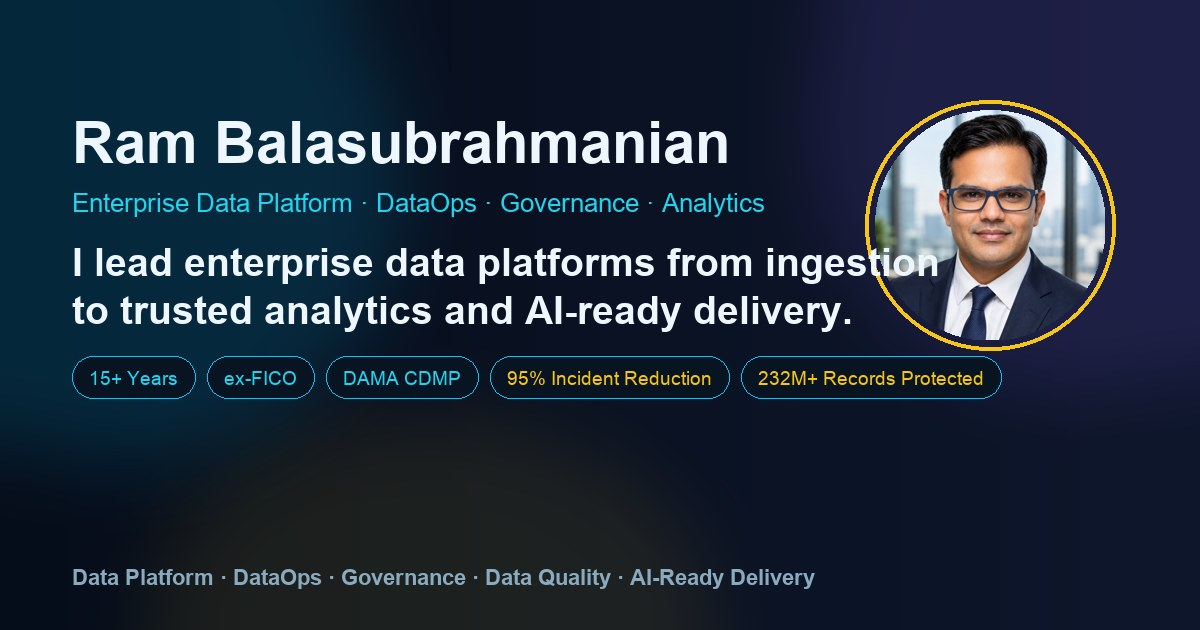
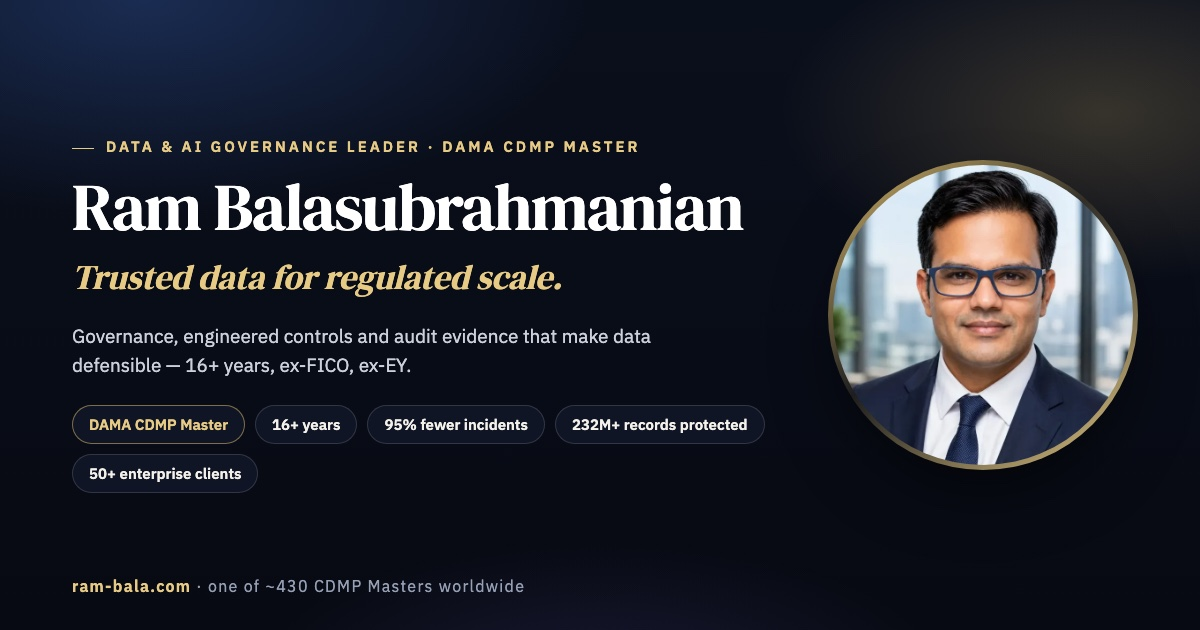
New social-share image (Midnight, CDMP Master, 16+ years); og:image cache-bust; legacy source cleanup

diff --git a/index.html b/index.html
@@ -1,4 +1,4 @@
-<!DOCTYPE html><html lang="en"><head><meta charset="UTF-8"/><meta name="viewport" content="width=device-width,initial-scale=1.0"/><title>Ram Balasubrahmanian | Data &amp; AI Governance Leader | ex-FICO | DAMA CDMP Master</title><meta name="description" content="Ram Balasubrahmanian — Data &amp; AI Governance leader. DAMA CDMP Master, 16+ years, ex-FICO, ex-EY. 95% fewer production incidents; 232M+ regulated records protected per cycle. Portfolio, case studies and working systems."/><meta name="keywords" content="Ram Balasubrahmanian, data governance leader, AI governance leader, enterprise data platform, DataOps, data quality, MDM, metadata management, RAG pipeline, MediGovern RAG, DAMA CDMP Master, ex-FICO, ex-EY, UAE data governance, GCC, KSA, NDMO, SAMA, SDAIA, DIFC, ADGM, PDPL data governance, data sovereignty, data residency, GDPR data governance, EU AI Act, DORA, Germany data governance, Frankfurt, Amsterdam, Dublin, APAC, BFSI, The Governed Data and AI Brief"/><meta name="geo.region" content="IN-KA"/><meta name="geo.placename" content="Bengaluru, Karnataka, India"/><meta name="coverage" content="Worldwide"/><meta name="rating" content="general"/><meta name="referrer" content="strict-origin-when-cross-origin"/><meta property="og:title" content="Ram Balasubrahmanian | Data &amp; AI Governance Leader"/><meta property="og:description" content="Data Governance, AI Governance and DataOps for BFSI &amp; other data-intensive domains. ex-FICO · DAMA CDMP Master · 95% incident reduction · GCC and APAC."/><meta property="og:type" content="profile"/><meta property="og:url" content="https://www.ram-bala.com/"/><meta property="og:image" content="https://www.ram-bala.com/assets/og-image.jpg"/><meta property="og:image:width" content="1200"/><meta property="og:image:height" content="630"/><meta property="og:image:alt" content="Ram Balasubrahmanian — Data and AI Governance Leader portfolio"/><meta property="og:site_name" content="Ram Balasubrahmanian"/><meta property="og:locale" content="en_US"/><meta property="profile:first_name" content="Ram"/><meta property="profile:last_name" content="Balasubrahmanian"/><meta name="twitter:card" content="summary_large_image"/><meta name="twitter:title" content="Ram Balasubrahmanian | Data &amp; AI Governance Leader"/><meta name="twitter:description" content="ex-FICO Data Governance &amp; AI Governance leader. DAMA CDMP Master. UAE · GCC · APAC."/><meta name="twitter:image" content="https://www.ram-bala.com/assets/og-image.jpg"/><meta name="twitter:image:alt" content="Ram Balasubrahmanian portfolio"/><meta name="robots" content="index,follow,max-image-preview:large,max-snippet:-1,max-video-preview:-1"/><meta name="googlebot" content="index,follow"/><meta name="author" content="Ramachandran Balasubrahmanian"/><meta name="theme-color" content="#000000"/><link rel="canonical" href="https://www.ram-bala.com/"/><link rel="sitemap" type="application/xml" title="Sitemap" href="/sitemap.xml"/><link rel="me" href="https://www.linkedin.com/in/ramachandran-balasubrahmanian/"/><link rel="me" href="https://github.com/ramachandranbalasubrahmanian-svg"/><link rel="icon" type="image/png" href="/assets/headshot.png"/><link rel="apple-touch-icon" href="/assets/headshot.png"/>
+<!DOCTYPE html><html lang="en"><head><meta charset="UTF-8"/><meta name="viewport" content="width=device-width,initial-scale=1.0"/><title>Ram Balasubrahmanian | Data &amp; AI Governance Leader | ex-FICO | DAMA CDMP Master</title><meta name="description" content="Ram Balasubrahmanian — Data &amp; AI Governance leader. DAMA CDMP Master, 16+ years, ex-FICO, ex-EY. 95% fewer production incidents; 232M+ regulated records protected per cycle. Portfolio, case studies and working systems."/><meta name="keywords" content="Ram Balasubrahmanian, data governance leader, AI governance leader, enterprise data platform, DataOps, data quality, MDM, metadata management, RAG pipeline, MediGovern RAG, DAMA CDMP Master, ex-FICO, ex-EY, UAE data governance, GCC, KSA, NDMO, SAMA, SDAIA, DIFC, ADGM, PDPL data governance, data sovereignty, data residency, GDPR data governance, EU AI Act, DORA, Germany data governance, Frankfurt, Amsterdam, Dublin, APAC, BFSI, The Governed Data and AI Brief"/><meta name="geo.region" content="IN-KA"/><meta name="geo.placename" content="Bengaluru, Karnataka, India"/><meta name="coverage" content="Worldwide"/><meta name="rating" content="general"/><meta name="referrer" content="strict-origin-when-cross-origin"/><meta property="og:title" content="Ram Balasubrahmanian | Data &amp; AI Governance Leader"/><meta property="og:description" content="Data Governance, AI Governance and DataOps for BFSI &amp; other data-intensive domains. ex-FICO · DAMA CDMP Master · 95% incident reduction · GCC and APAC."/><meta property="og:type" content="profile"/><meta property="og:url" content="https://www.ram-bala.com/"/><meta property="og:image" content="https://www.ram-bala.com/assets/og-image.jpg?v=3"/><meta property="og:image:width" content="1200"/><meta property="og:image:height" content="630"/><meta property="og:image:alt" content="Ram Balasubrahmanian — Data and AI Governance Leader portfolio"/><meta property="og:site_name" content="Ram Balasubrahmanian"/><meta property="og:locale" content="en_US"/><meta property="profile:first_name" content="Ram"/><meta property="profile:last_name" content="Balasubrahmanian"/><meta name="twitter:card" content="summary_large_image"/><meta name="twitter:title" content="Ram Balasubrahmanian | Data &amp; AI Governance Leader"/><meta name="twitter:description" content="ex-FICO Data Governance &amp; AI Governance leader. DAMA CDMP Master. UAE · GCC · APAC."/><meta name="twitter:image" content="https://www.ram-bala.com/assets/og-image.jpg?v=3"/><meta name="twitter:image:alt" content="Ram Balasubrahmanian portfolio"/><meta name="robots" content="index,follow,max-image-preview:large,max-snippet:-1,max-video-preview:-1"/><meta name="googlebot" content="index,follow"/><meta name="author" content="Ramachandran Balasubrahmanian"/><meta name="theme-color" content="#000000"/><link rel="canonical" href="https://www.ram-bala.com/"/><link rel="sitemap" type="application/xml" title="Sitemap" href="/sitemap.xml"/><link rel="me" href="https://www.linkedin.com/in/ramachandran-balasubrahmanian/"/><link rel="me" href="https://github.com/ramachandranbalasubrahmanian-svg"/><link rel="icon" type="image/png" href="/assets/headshot.png"/><link rel="apple-touch-icon" href="/assets/headshot.png"/>
 <style>@font-face{font-family:'DM Serif Display';font-style:normal;font-weight:400;font-display:swap;src:url('assets/fonts/dm-serif-display-latin.woff2') format('woff2');unicode-range:U+0000-00FF,U+0131,U+0152-0153,U+02BB-02BC,U+02C6,U+02DA,U+02DC,U+2000-206F,U+20AC,U+2122,U+2191,U+2193,U+2212,U+2215,U+FEFF,U+FFFD}@font-face{font-family:'IBM Plex Sans';font-style:normal;font-weight:400;font-display:swap;src:url('assets/fonts/ibm-plex-sans-400-latin.woff2') format('woff2');unicode-range:U+0000-00FF,U+0131,U+0152-0153,U+02BB-02BC,U+02C6,U+02DA,U+02DC,U+2000-206F,U+20AC,U+2122,U+2191,U+2193,U+2212,U+2215,U+FEFF,U+FFFD}@font-face{font-family:'IBM Plex Sans';font-style:normal;font-weight:600;font-display:swap;src:url('assets/fonts/ibm-plex-sans-600-latin.woff2') format('woff2');unicode-range:U+0000-00FF,U+0131,U+0152-0153,U+02BB-02BC,U+02C6,U+02DA,U+02DC,U+2000-206F,U+20AC,U+2122,U+2191,U+2193,U+2212,U+2215,U+FEFF,U+FFFD}</style><link rel="preload" href="assets/fonts/ibm-plex-sans-400-latin.woff2" as="font" type="font/woff2" crossorigin/><link rel="preload" href="assets/fonts/ibm-plex-sans-600-latin.woff2" as="font" type="font/woff2" crossorigin/><link rel="preload" href="assets/fonts/dm-serif-display-latin.woff2" as="font" type="font/woff2" crossorigin/><link rel="stylesheet" href="assets/style.css?v=26"/><link rel="stylesheet" href="assets/executive-upgrade.css?v=13"/><link rel="stylesheet" href="assets/review-fixes.css?v=1"/><link rel="stylesheet" href="assets/theme-v3.css?v=2"/>
 <link rel="stylesheet" href="assets/recommendations-carousel.css?v=7" media="print" onload="this.media='all'"/><link rel="stylesheet" href="assets/dama-credential-wall.css?v=3" media="print" onload="this.media='all'"/><noscript><link rel="stylesheet" href="assets/recommendations-carousel.css?v=7"/><link rel="stylesheet" href="assets/dama-credential-wall.css?v=3"/></noscript><link rel="preload" href="assets/headshot-340.webp" as="image" type="image/webp" fetchpriority="high"/><link rel="dns-prefetch" href="https://assets.calendly.com"/><link rel="preconnect" href="https://assets.calendly.com" crossorigin/></head><body class="exec-fast"><a class="skip-link" href="#main">Skip to content</a><div class="scroll-progress" id="scroll-progress" aria-hidden="true" hidden></div><div class="announce-strip"><div class="announce-inner">DAMA CDMP Master · one of ~430 certified worldwide · <a href="https://eu.credential.net/4a794956-acbf-4e4c-bdfa-0507c563027c" class="announce-link" target="_blank" rel="noopener">Verify credential&thinsp;→</a><a href="/demos/" class="announce-link">Three working systems&thinsp;→</a></div></div><div class="exec-bar" id="exec-bar" aria-hidden="true" inert><div class="exec-bar-inner"><span class="exec-bar-name">Ram Balasubrahmanian</span><span class="exec-bar-role">Data &amp; AI Governance · ex-FICO</span><div class="exec-bar-kpis" aria-label="Key outcomes"><div class="exec-bar-kpi"><strong>95%</strong><span>incidents down</span></div><div class="exec-bar-kpi"><strong>232M+</strong><span>records protected</span></div><div class="exec-bar-kpi"><strong>$2M+</strong><span>annual savings</span></div><div class="exec-bar-kpi"><strong>50+</strong><span>enterprise clients</span></div></div><div class="exec-bar-actions"><a href="assets/Ram-Bala-Executive-Summary.pdf?v=9" class="exec-bar-link exec-bar-link-primary" download="Ram-Bala-Executive-Summary.pdf">Executive summary</a><a href="assets/resume.pdf?v=13" class="exec-bar-link" download="Ram-Bala-Master-Resume.pdf">CV</a><a href="#contact" class="exec-bar-cta">Contact</a></div></div></div><nav id="nav" class="solid" aria-label="Primary navigation"><div class="nav-inner"><a href="#hero" class="nav-logo"><div class="nav-badge">RB</div>
 Ram Balasubrahmanian

diff --git a/perspectives/eu-gdpr-ai-act-data-governance/index.html b/perspectives/eu-gdpr-ai-act-data-governance/index.html
@@ -14,14 +14,14 @@
 <meta property="og:url" content="https://www.ram-bala.com/perspectives/eu-gdpr-ai-act-data-governance/"/>
 <meta property="og:title" content="EU GDPR &amp; AI Act Data Governance | Ram Balasubrahmanian"/>
 <meta property="og:description" content="GDPR-aligned controls delivered vendor-side, EU-AI-Act advisory analysis, and three working governed-AI demos. By Ram Balasubrahmanian, DAMA CDMP Master."/>
-<meta property="og:image" content="https://www.ram-bala.com/assets/og-image.jpg"/>
+<meta property="og:image" content="https://www.ram-bala.com/assets/og-image.jpg?v=3"/>
 <meta property="og:image:width" content="1200"/>
 <meta property="og:image:height" content="630"/>
 <meta property="og:image:alt" content="EU GDPR and AI Act data governance perspective"/>
 <meta name="twitter:card" content="summary_large_image"/>
 <meta name="twitter:title" content="EU GDPR &amp; AI Act Data Governance"/>
 <meta name="twitter:description" content="GDPR-aligned controls delivered vendor-side, EU-AI-Act advisory analysis, three working governed-AI demos."/>
-<meta name="twitter:image" content="https://www.ram-bala.com/assets/og-image.jpg"/>
+<meta name="twitter:image" content="https://www.ram-bala.com/assets/og-image.jpg?v=3"/>
 <script type="application/ld+json">
 {
   "@context":"https://schema.org",
@@ -36,7 +36,7 @@
       "datePublished":"2026-06-26",
       "dateModified":"2026-06-26",
       "mainEntityOfPage":"https://www.ram-bala.com/perspectives/eu-gdpr-ai-act-data-governance/",
-      "image":"https://www.ram-bala.com/assets/og-image.jpg",
+      "image":"https://www.ram-bala.com/assets/og-image.jpg?v=3",
       "keywords":["EU AI Act","GDPR data governance","DORA","data governance","Netherlands","Ireland","Germany","AI governance","DAMA DMBOK","data quality"],
       "articleSection":"EU Data Governance"
     },

diff --git a/perspectives/gcc-pdpl-data-governance/index.html b/perspectives/gcc-pdpl-data-governance/index.html
@@ -13,14 +13,14 @@
 <meta property="og:url" content="https://www.ram-bala.com/perspectives/gcc-pdpl-data-governance/"/>
 <meta property="og:title" content="GCC PDPL Data Governance | Ram Balasubrahmanian"/>
 <meta property="og:description" content="What GCC data programs need now: governance, stewardship, lineage, privacy controls, audit evidence and AI readiness."/>
-<meta property="og:image" content="https://www.ram-bala.com/assets/og-image.jpg"/>
+<meta property="og:image" content="https://www.ram-bala.com/assets/og-image.jpg?v=3"/>
 <meta property="og:image:width" content="1200"/>
 <meta property="og:image:height" content="630"/>
 <meta property="og:image:alt" content="GCC PDPL data governance perspective"/>
 <meta name="twitter:card" content="summary_large_image"/>
 <meta name="twitter:title" content="GCC PDPL Data Governance"/>
 <meta name="twitter:description" content="Data governance perspective for UAE, KSA, Qatar and regulated GCC organizations."/>
-<meta name="twitter:image" content="https://www.ram-bala.com/assets/og-image.jpg"/>
+<meta name="twitter:image" content="https://www.ram-bala.com/assets/og-image.jpg?v=3"/>
 <script type="application/ld+json">
 {
   "@context":"https://schema.org",
@@ -35,7 +35,7 @@
       "datePublished":"2026-06-15",
       "dateModified":"2026-06-17",
       "mainEntityOfPage":"https://www.ram-bala.com/perspectives/gcc-pdpl-data-governance/",
-      "image":"https://www.ram-bala.com/assets/og-image.jpg",
+      "image":"https://www.ram-bala.com/assets/og-image.jpg?v=3",
       "keywords":["GCC data governance","PDPL","NDMO","SAMA","SDAIA","UAE","Saudi Arabia","DIFC","ADGM","data sovereignty","data residency","DAMA DMBOK","data quality"],
       "articleSection":"GCC Data Governance"
     },

diff --git a/perspectives/incident-reduction-95-percent/index.html b/perspectives/incident-reduction-95-percent/index.html
@@ -13,14 +13,14 @@
 <meta property="og:url" content="https://www.ram-bala.com/perspectives/incident-reduction-95-percent/"/>
 <meta property="og:title" content="95% Enterprise Data Incident Reduction | Ram Balasubrahmanian"/>
 <meta property="og:description" content="A DataOps case study on reducing recurring enterprise data incidents through ownership, RCA evidence and prevention controls."/>
-<meta property="og:image" content="https://www.ram-bala.com/assets/og-image.jpg"/>
+<meta property="og:image" content="https://www.ram-bala.com/assets/og-image.jpg?v=3"/>
 <meta property="og:image:width" content="1200"/>
 <meta property="og:image:height" content="630"/>
 <meta property="og:image:alt" content="Ram Balasubrahmanian DataOps case study"/>
 <meta name="twitter:card" content="summary_large_image"/>
 <meta name="twitter:title" content="95% Enterprise Data Incident Reduction"/>
 <meta name="twitter:description" content="Detect Resolve Prevent operating model by Ram Balasubrahmanian."/>
-<meta name="twitter:image" content="https://www.ram-bala.com/assets/og-image.jpg"/>
+<meta name="twitter:image" content="https://www.ram-bala.com/assets/og-image.jpg?v=3"/>
 <script type="application/ld+json">
 {
   "@context":"https://schema.org",
@@ -35,7 +35,7 @@
       "datePublished":"2026-06-15",
       "dateModified":"2026-06-17",
       "mainEntityOfPage":"https://www.ram-bala.com/perspectives/incident-reduction-95-percent/",
-      "image":"https://www.ram-bala.com/assets/og-image.jpg",
+      "image":"https://www.ram-bala.com/assets/og-image.jpg?v=3",
       "keywords":["DataOps","incident reduction","RCA","metadata controls","FICO","enterprise data"],
       "articleSection":"DataOps"
     },

diff --git a/perspectives/ai-governance-operating-model/index.html b/perspectives/ai-governance-operating-model/index.html
@@ -13,14 +13,14 @@
 <meta property="og:url" content="https://www.ram-bala.com/perspectives/ai-governance-operating-model/"/>
 <meta property="og:title" content="AI Governance Operating Model | Ram Balasubrahmanian"/>
 <meta property="og:description" content="Model cards are not enough. Practical AI governance needs evidence, monitoring, privacy, explainability and human review gates."/>
-<meta property="og:image" content="https://www.ram-bala.com/assets/og-image.jpg"/>
+<meta property="og:image" content="https://www.ram-bala.com/assets/og-image.jpg?v=3"/>
 <meta property="og:image:width" content="1200"/>
 <meta property="og:image:height" content="630"/>
 <meta property="og:image:alt" content="AI governance operating model by Ram Balasubrahmanian"/>
 <meta name="twitter:card" content="summary_large_image"/>
 <meta name="twitter:title" content="AI Governance Operating Model"/>
 <meta name="twitter:description" content="Practical AI governance for regulated BFSI platforms."/>
-<meta name="twitter:image" content="https://www.ram-bala.com/assets/og-image.jpg"/>
+<meta name="twitter:image" content="https://www.ram-bala.com/assets/og-image.jpg?v=3"/>
 <script type="application/ld+json">
 {
   "@context":"https://schema.org",
@@ -35,7 +35,7 @@
       "datePublished":"2026-06-15",
       "dateModified":"2026-06-17",
       "mainEntityOfPage":"https://www.ram-bala.com/perspectives/ai-governance-operating-model/",
-      "image":"https://www.ram-bala.com/assets/og-image.jpg",
+      "image":"https://www.ram-bala.com/assets/og-image.jpg?v=3",
       "keywords":["AI governance","model risk","explainability","BFSI","responsible AI"],
       "articleSection":"AI Governance"
     },

diff --git a/enterprise-data-platform/index.html b/enterprise-data-platform/index.html
@@ -14,13 +14,13 @@
 <meta property="og:url" content="https://www.ram-bala.com/enterprise-data-platform/"/>
 <meta property="og:title" content="Enterprise Data Platform Guide | Ram Balasubrahmanian"/>
 <meta property="og:description" content="A practical EDP knowledge hub for students, data leaders and practitioners: DMBOK, DataOps, governance, quality, reliability and AI controls."/>
-<meta property="og:image" content="https://www.ram-bala.com/assets/og-image.jpg"/>
+<meta property="og:image" content="https://www.ram-bala.com/assets/og-image.jpg?v=3"/>
 <meta property="og:image:width" content="1200"/>
 <meta property="og:image:height" content="630"/>
 <meta name="twitter:card" content="summary_large_image"/>
 <meta name="twitter:title" content="Enterprise Data Platform Guide | Ram Balasubrahmanian"/>
 <meta name="twitter:description" content="Practical EDP guide covering governance, DataOps, DMBOK, audit evidence and AI governance."/>
-<meta name="twitter:image" content="https://www.ram-bala.com/assets/og-image.jpg"/>
+<meta name="twitter:image" content="https://www.ram-bala.com/assets/og-image.jpg?v=3"/>
 <script type="application/ld+json">
 {
   "@context":"https://schema.org",
@@ -35,7 +35,7 @@
       "mainEntityOfPage":"https://www.ram-bala.com/enterprise-data-platform/",
       "datePublished":"2026-06-15",
       "dateModified":"2026-06-17",
-      "image":"https://www.ram-bala.com/assets/og-image.jpg"
+      "image":"https://www.ram-bala.com/assets/og-image.jpg?v=3"
     },
     {
       "@type":"FAQPage",

diff --git a/perspectives/index.html b/perspectives/index.html
@@ -13,13 +13,13 @@
 <meta property="og:url" content="https://www.ram-bala.com/perspectives/"/>
 <meta property="og:title" content="Data Governance Perspectives | Ram Balasubrahmanian"/>
 <meta property="og:description" content="Data governance, AI governance, DataOps and GCC data leadership perspectives from Ram Balasubrahmanian."/>
-<meta property="og:image" content="https://www.ram-bala.com/assets/og-image.jpg"/>
+<meta property="og:image" content="https://www.ram-bala.com/assets/og-image.jpg?v=3"/>
 <meta property="og:image:width" content="1200"/>
 <meta property="og:image:height" content="630"/>
 <meta name="twitter:card" content="summary_large_image"/>
 <meta name="twitter:title" content="Data Governance Perspectives | Ram Balasubrahmanian"/>
 <meta name="twitter:description" content="DataOps, AI governance and GCC data leadership insights."/>
-<meta name="twitter:image" content="https://www.ram-bala.com/assets/og-image.jpg"/>
+<meta name="twitter:image" content="https://www.ram-bala.com/assets/og-image.jpg?v=3"/>
 <script type="application/ld+json">
 {
   "@context":"https://schema.org",

diff --git a/resume.source.html b/resume.source.html
@@ -113,7 +113,7 @@
 </div>
 
 <div class="page page-break">
-  <h2>Independent Practice — Data &amp; AI Governance &nbsp;<span style="font-weight:600;color:var(--muted);letter-spacing:0;text-transform:none;font-size:8.6px;">Apr 2025 – Present · immediately available</span></h2>
+  <h2>Independent Practice — Data &amp; AI Governance &nbsp;<span style="font-weight:600;color:var(--muted);letter-spacing:0;text-transform:none;font-size:8.6px;">Apr 2025 – Present</span></h2>
   <ul>
     <li>Advanced DAMA CDMP toward Master level; grew <b>The Governed Data &amp; AI Brief</b> newsletter to <b>3,000+ subscribers</b>.</li>
     <li>Stayed current with enterprise GenAI, RAG, and AI-governance patterns, translating emerging capabilities into executive-ready guidance on metadata, lineage, access controls, data quality, model risk, and responsible AI adoption for regulated data platforms.</li>
